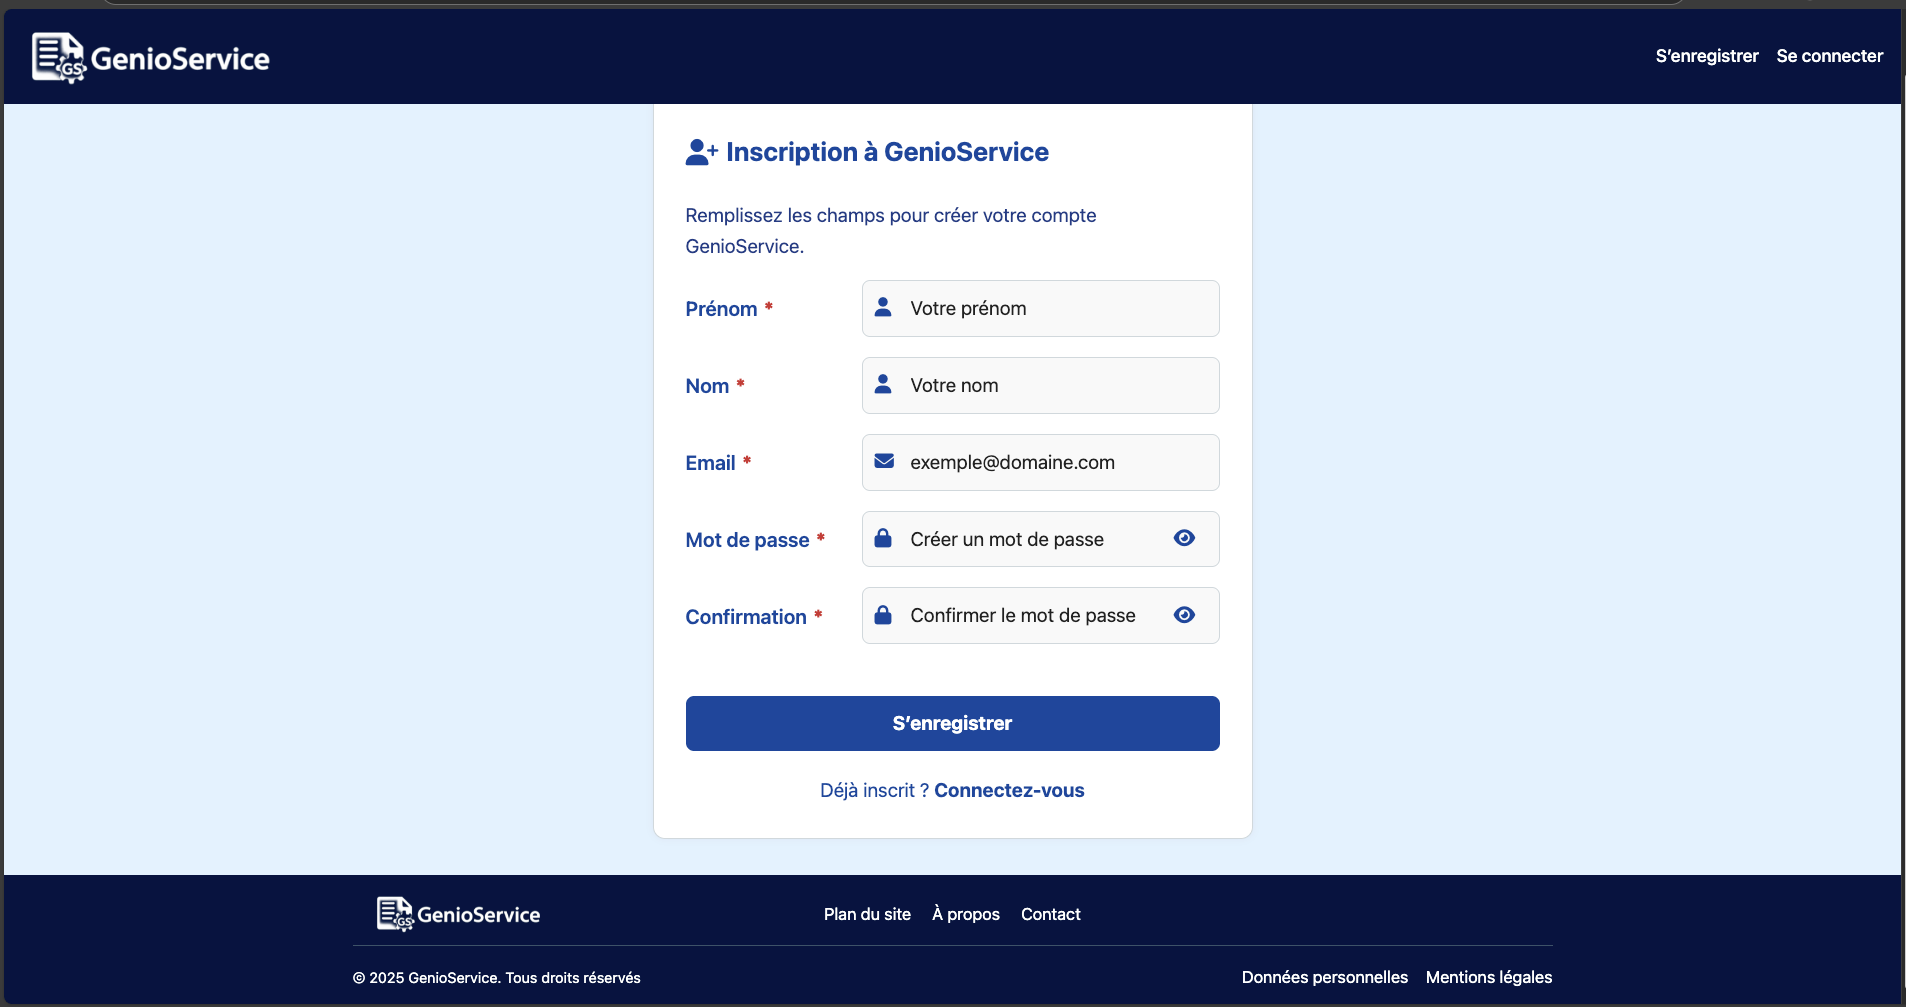
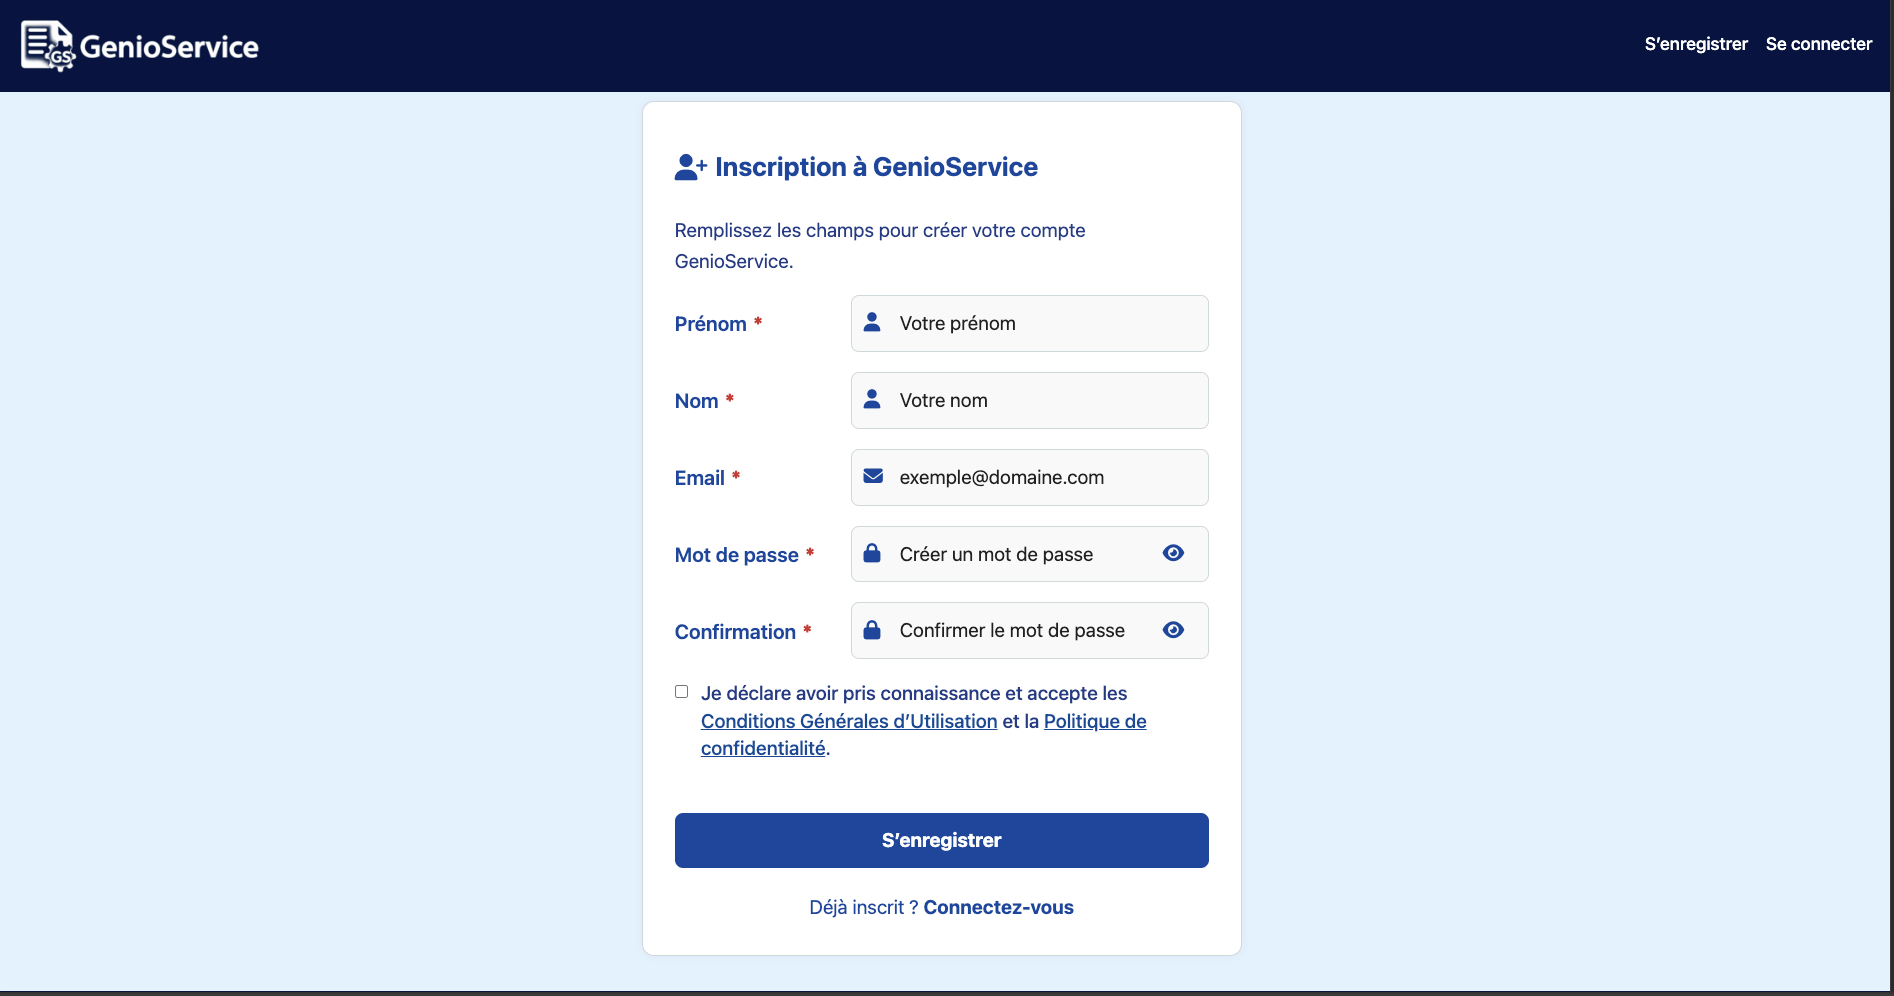
modification doc fonctionelle

Changed region(s): [[0.0, 0.0, 1.0, 1.0], [0.4361, 0.3735, 0.5919, 0.498], [0.4361, 0.2801, 0.5296, 0.3424]]

diff --git a/src/app/app.routes.ts b/src/app/app.routes.ts
@@ -5,7 +5,6 @@ import { ConnexionComponent } from './pages/connexion/connexion.component';
 import { ContactComponent } from './pages/contact/contact.component';
 import { AProposComponent } from './pages/a-propos/a-propos.component';
 import { MentionsLegalesComponent } from './pages/mentions-legales/mentions-legales.component';
-import { DonneesPersonnellesComponent } from './pages/donnees-personnelles/donnees-personnelles.component';
 import { PlanDuSiteComponent } from './pages/plan-du-site/plan-du-site.component';
 import {ConsulterModeleTousComponent} from './pages/consulter-modele-tous/consulter-modele-tous.component';
 import { ModifierModeleComponent } from './pages/modifier-modele/modifier-modele.component';
@@ -17,6 +16,7 @@ import {HistoriqueConventionsComponent} from './pages/historique-conventions/his
 import {GererModelesComponent} from './pages/gerer-modeles/gerer-modeles.component';
 import {ArchiverModeleComponent} from './pages/archiver-modele/archiver-modele.component';
 import {CguComponent} from './pages/cgu/cgu.component';
+import {PolitiqueConfidentialiteComponent} from './pages/confidentialite/confidentialite.component';
 
 export const routes: Routes = [
   { path: '', component: AccueilComponent },
@@ -25,7 +25,7 @@ export const routes: Routes = [
   { path: 'contact', component: ContactComponent },
   { path: 'a-propos', component: AProposComponent },
   { path: 'mentions-legales', component: MentionsLegalesComponent },
-  { path: 'donnees-personnelles', component: DonneesPersonnellesComponent },
+  { path: 'confidentialite', component: PolitiqueConfidentialiteComponent },
   { path: 'plan-du-site', component: PlanDuSiteComponent },
   {path: 'consulter-modeles', component: ConsulterModeleTousComponent},
   { path: 'modifier-modele/:id', component: ModifierModeleComponent },

diff --git a/src/app/pages/confidentialite/confidentialite.component.spec.ts b/src/app/pages/confidentialite/confidentialite.component.spec.ts
@@ -1,18 +1,19 @@
 import { ComponentFixture, TestBed } from '@angular/core/testing';
+import {PolitiqueConfidentialiteComponent} from './confidentialite.component';
 
-import { DonneesPersonnellesComponent } from './donnees-personnelles.component';
+
 
 describe('DonneesPersonnellesComponent', () => {
-  let component: DonneesPersonnellesComponent;
-  let fixture: ComponentFixture<DonneesPersonnellesComponent>;
+  let component: PolitiqueConfidentialiteComponent;
+  let fixture: ComponentFixture<PolitiqueConfidentialiteComponent>;
 
   beforeEach(async () => {
     await TestBed.configureTestingModule({
-      imports: [DonneesPersonnellesComponent]
+      imports: [PolitiqueConfidentialiteComponent]
     })
     .compileComponents();
 
-    fixture = TestBed.createComponent(DonneesPersonnellesComponent);
+    fixture = TestBed.createComponent(PolitiqueConfidentialiteComponent);
     component = fixture.componentInstance;
     fixture.detectChanges();
   });

diff --git a/src/app/pages/confidentialite/confidentialite.component.html b/src/app/pages/confidentialite/confidentialite.component.html
@@ -2,12 +2,12 @@
   <div class="about-box">
     <header class="about-header">
       <i class="fas fa-user-shield" aria-hidden="true"></i>
-      <h1 id="page-title">Données personnelles & cookies</h1>
+      <h1 id="page-title">Politique de confidentialité</h1>
     </header>
     <app-breadcrumb
       [items]="[
         { label: 'Accueil', url: '/' },
-        { label: 'Données personnelles & cookies' }
+        { label: 'Politique de confidentialité' }
       ]"
       aria-labelledby="page-title">
     </app-breadcrumb>
@@ -39,7 +39,7 @@
         </li>
         <li>
           par courrier postal, signé et accompagné d’une copie d’une pièce d’identité, à l’adresse suivante :<br />
-         <br>
+          <br>
           <strong>GenioService</strong><br />
           À l’attention de Mme Elsa HADJADJ, Déléguée à la Protection des Données (DPO)<br />
           Département Informatique – IUT de Montreuil<br />

diff --git a/src/app/pages/confidentialite/confidentialite.component.ts b/src/app/pages/confidentialite/confidentialite.component.ts
@@ -16,14 +16,14 @@ import { Component } from '@angular/core';
 import {BreadcrumbComponent} from '../../shared/breadcrumb/breadcrumb.component';
 
 @Component({
-  selector: 'app-donnees-personnelles',
+  selector: 'app-confidentialite',
   imports: [
     BreadcrumbComponent
   ],
-  templateUrl: './donnees-personnelles.component.html',
+  templateUrl: './confidentialite.component.html',
   standalone: true,
-  styleUrls: ['./donnees-personnelles.component.css','../../../assets/styles/header.css']
+  styleUrls: ['./confidentialite.component.css','../../../assets/styles/header.css']
 })
-export class DonneesPersonnellesComponent {
+export class PolitiqueConfidentialiteComponent {
 
 }

diff --git a/src/app/pages/plan-du-site/plan-du-site.component.html b/src/app/pages/plan-du-site/plan-du-site.component.html
@@ -215,7 +215,7 @@
         <li><i class="fas fa-circle"></i> <a routerLink="/a-propos">À propos</a></li>
         <li><i class="fas fa-circle"></i> <a routerLink="/contact">Contact</a></li>
         <li><i class="fas fa-circle"></i> <a routerLink="/mentions-legales">Mentions légales</a></li>
-        <li><i class="fas fa-circle"></i> <a routerLink="/donnees-personnelles">Données personnelles & cookies</a></li>
+        <li><i class="fas fa-circle"></i> <a routerLink="/confidentialite">Politique de confidentialité</a></li>
         <li><i class="fas fa-circle"></i> <a routerLink="/plan-du-site">Plan du site</a></li>
       </ul>
     </section>

diff --git a/src/app/pages/cgu/cgu.component.html b/src/app/pages/cgu/cgu.component.html
@@ -43,10 +43,10 @@
     </section>
 
     <section class="about-section">
-      <h2><i class="fas fa-user-shield"></i> Données personnelles</h2>
+      <h2><i class="fas fa-user-shield"></i> Politique de confidentialité</h2>
       <p>
         Pour consulter la politique de confidentialité, veuillez vous référer à la page :
-        <a href="/donnees-personnelles">Données personnelles & cookies</a>.
+        <a routerLink="/confidentialite">Politique de confidentialité</a>
       </p>
     </section>
 

diff --git a/src/app/pages/inscription/inscription.component.html b/src/app/pages/inscription/inscription.component.html
@@ -74,7 +74,7 @@
       Je déclare avoir pris connaissance et accepte les
       <a href="/cgu" target="_blank" rel="noopener">Conditions Générales d’Utilisation</a>
       et la
-      <a href="/donnees-personnelles" target="_blank" rel="noopener">Politique de confidentialité</a>.
+      <a href="/confidentialite" target="_blank" rel="noopener">Politique de confidentialité</a>.
     </span>
         </label>
       </div>

diff --git a/src/app/shared/footer/footer.component.html b/src/app/shared/footer/footer.component.html
@@ -18,7 +18,7 @@
         <small>© 2025 GenioService. Tous droits réservés</small>
       </div>
       <nav class="footer-right" aria-label="Liens légaux">
-        <a routerLink="/donnees-personnelles">Données personnelles</a>
+        <a routerLink="/confidentialite">Politique de confidentialité</a>
         <a routerLink="/mentions-legales">Mentions légales</a>
         <a routerLink="/cgu">CGU</a>
       </nav>

diff --git a/src/app/pages/cgu/cgu.component.ts b/src/app/pages/cgu/cgu.component.ts
@@ -1,10 +1,12 @@
 import { Component } from '@angular/core';
 import {BreadcrumbComponent} from '../../shared/breadcrumb/breadcrumb.component';
+import {RouterLink} from '@angular/router';
 
 @Component({
   selector: 'app-cgu',
   imports: [
-    BreadcrumbComponent
+    BreadcrumbComponent,
+    RouterLink
   ],
   templateUrl: './cgu.component.html',
   standalone: true,

diff --git a/src/app/shared/navbar/navbar.component.ts b/src/app/shared/navbar/navbar.component.ts
@@ -45,7 +45,8 @@ export class NavbarComponent {
       '/a-propos',
       '/contact',
       '/mentions-legales',
-      '/donnees-personnelles',
+      '/confidentialite',
+      '/cgu',
       '/plan-du-site',
       '/reset-password',
       '/mot-de-passe-oublie'

diff --git a/docs/04-doc-fonctionnelle.md b/docs/04-doc-fonctionnelle.md
@@ -22,8 +22,9 @@
 - [Page – Plan du site](#page--plan-du-site)
 - [Page – À propos de GenioService](#page--à-propos-de-genioservice)
 - [Page – Contact](#page--contact)
-- [Page – Données personnelles & cookies](#page--données-personnelles--cookies)
+- [Page – Politique de confidentialité](#page--politique-de-confidentialité)
 - [Pages - Mentions légales](#page--mentions-légales)
+- [Conditions Générales d’Utilisation (CGU)](#page--conditions-générales-dutilisation-cgu)
 
 ## Page d’accueil
 
@@ -181,33 +182,40 @@ C’est l’étape préalable à toute utilisation du service.
   - **Adresse e-mail**
   - **Mot de passe**
   - **Confirmation du mot de passe**
+  - **Case à cocher obligatoire** :  
+    _Je déclare avoir pris connaissance et accepte les [Conditions Générales d’Utilisation](/cgu) et la [Politique de confidentialité](/confidentialite)._
 
 - Une fois tous les champs valides :
-  - Le bouton **S’enregistrer** envoie les données via POST /api/utilisateurs
-  - L’adresse e-mail est vérifiée pour **unicité** en temps réel (appel GET /exists)
+  - Le bouton **S’enregistrer** envoie les données via `POST /api/utilisateurs`
+  - L’adresse e-mail est vérifiée pour **unicité** en temps réel (`GET /api/utilisateurs/exists`)
   - Si inscription réussie, l’utilisateur est redirigé vers la page de **connexion**
   - En cas d’erreur, un message clair est affiché en haut du formulaire
 
 - Le formulaire inclut une **vérification dynamique du mot de passe** :
-  - La liste des règles non respectées est affichée en badges rouges sous le champ
+  - Les règles non respectées s’affichent en **badges rouges** sous le champ
+  - Elles disparaissent une à une dès qu’elles sont respectées
 
 ---
 
 ### Exigences fonctionnelles de page d'inscription
 
 - Tous les champs sont **obligatoires** (required)
-- Le mot de passe doit **respecter toutes les règles suivantes** :
+- Le mot de passe doit respecter **toutes les règles suivantes** :
   - Minimum **12 caractères**
   - Contenir **au moins 1 majuscule**
   - Contenir **au moins 1 chiffre**
   - Contenir **au moins 1 caractère spécial**
-- Les mots de passe et confirmation doivent **être identiques**
-- Si l’adresse e-mail existe déjà, un message s’affiche : Cet e-mail est déjà utilisé.
-- En cas d’erreur, le message disparaît automatiquement après quelques secondes
-- Accessibilité :
-  - aria-label, aria-live, aria-describedby intégrés
-  - Navigation clavier et lecteurs d’écran prise en charge
-- Comportement responsive (PC et mobile)
+- Les mots de passe et la confirmation doivent être **identiques**
+- L’adresse e-mail doit être **unique** dans la base de données
+- La **case à cocher RGPD est obligatoire** :
+  - Elle doit être cochée pour permettre l’envoi du formulaire
+  - En cas d’absence de consentement, un message d’erreur s’affiche :  
+    _Vous devez accepter les conditions pour vous inscrire._
+- En cas d’erreur, un message s’affiche en haut du formulaire, puis disparaît automatiquement après quelques secondes
+- **Accessibilité** :
+  - `aria-label`, `aria-live`, `aria-describedby` intégrés
+  - Compatible avec la **navigation clavier** et les **lecteurs d’écran**
+- **Responsive** : fonctionne sur PC et mobile
 
 ---
 
@@ -1506,39 +1514,49 @@ Permettre aux visiteurs du site, connectés ou non, de **contacter le développe
 
 ---
 
-## Page – Données personnelles & cookies
+## Page – Politique de confidentialité
 
-### Objectif de la page Données personnelles & cookies
+### Objectif de la page Politique de confidentialité
 
 Informer l’utilisateur des engagements de GenioService concernant la protection des données personnelles, les droits des utilisateurs, la nature des données collectées et l’usage des cookies. Cette page est obligatoire dans un cadre RGPD.
 
 ---
 
-### Aperçu de la page Données personnelles & cookies
-
+### Aperçu de la page Politique de confidentialité
+<!-- markdownlint-disable MD033 -->
 <div>
-  <img src="./assets/images/page-donnees-personnelles.png" alt="Page Données personnelles et cookies – GenioService" width="600"/>
+  <img src="./assets/images/page-confidentialite.png" alt="Page Politique de confidentialité – GenioService" width="600"/>
 </div>
 
 ---
 
-### Fonctionnement de l’écran de la page Données personnelles & cookies
+### Fonctionnement de l’écran de la page Politique de confidentialité
 
-- Accessible publiquement depuis le footer (lien "Données personnelles").
+- Accessible publiquement depuis le footer (lien « Politique de confidentialité »).
+- Lien également présent dans le formulaire d’inscription (via la case à cocher obligatoire) :
+  > « Je déclare avoir pris connaissance et accepte la [Politique de confidentialité](/confidentialite) »
 - Structure en **6 sections explicites** :
-  1. **Engagement de GenioService** : conformité au RGPD, pas de collecte sans consentement.
-  2. **Vos droits** : suppression, opposition, limitation (droit à la vie privée).
-       - Coordonnées de la DPO (Elsa Hadjadj) fournies (email et adresse postale).
-       - Obligation de joindre une pièce d’identité pour toute demande.
-  3. **Données collectées** : uniquement celles nécessaires à l’authentification et gestion.
-       - Aucune donnée sensible stockée en clair.
-  4. **Utilisation des cookies** : uniquement cookies techniques (aucun traceur pub).
-  5. **Gérer vos préférences** : liens vers les paramètres de chaque navigateur.
-  6. **Liens utiles** : vers le site de la CNIL pour plus d’infos.
+  1. **Engagement de GenioService** : conformité stricte au RGPD, aucune collecte sans consentement.
+  2. **Vos droits** : possibilité de demander l’accès, la rectification, l’effacement ou la limitation des données.
+  - Coordonnées de la DPO (Elsa Hadjadj) fournies.
+  - Justificatif d’identité exigé pour valider la demande.
+  3. **Données collectées** : uniquement les données nécessaires à l’inscription et à l’authentification.
+  - Aucune donnée sensible stockée en clair ni utilisée à d'autres fins.
+  4. **Utilisation des cookies** :
+  - Uniquement des cookies techniques nécessaires à la session (pas de cookies publicitaires).
+  5. **Gérer vos préférences** :
+  - Instructions pour configurer les cookies via les navigateurs (Chrome, Firefox, Safari…).
+  6. **Liens utiles** :
+  - Renvoi vers le site de la CNIL pour approfondir ses droits et démarches.
+
+- Les données personnelles sont conservées pendant une durée maximale de **1 an après la dernière activité** sur le compte. Passé ce délai, le compte est automatiquement désactivé.
+- Si aucune demande de suppression n’est formulée, les données sont conservées pendant encore **5 ans à des fins d’archivage pédagogique**, puis automatiquement supprimées ou anonymisées de manière irréversible.
+- À tout moment, l’utilisateur peut **demander la suppression immédiate de ses données** en contactant la Déléguée à la Protection des Données (DPO) à l’adresse suivante : <a href="mailto:elsa.simha.hadjadj@gmail.com">elsa.simha.hadjadj@gmail.com</a>.
+- Conformément au principe de **minimisation** du RGPD, GenioService ne collecte que les données strictement nécessaires au fonctionnement de la plateforme.
 
 ---
 
-### Exigences fonctionnelles de la page Données personnelles & cookies
+### Exigences fonctionnelles de la page Politique de confidentialité
 
 - Lien accessible dans le footer de toutes les pages.
 - Tous les liens extérieurs ouvrent un nouvel onglet (`target="_blank"`, `rel="noopener"`).
@@ -1549,7 +1567,7 @@ Informer l’utilisateur des engagements de GenioService concernant la protectio
 
 ---
 
-### Exigences techniques de la page Données personnelles & cookies
+### Exigences techniques de la page Politique de confidentialité
 
 - **Framework** : Angular 17
 - **Composant** : `DpoComponent` ou `DonnéesPersonnellesComponent` (standalone)
@@ -1601,12 +1619,13 @@ Présenter les informations légales obligatoires liées à l'éditeur du site G
 ### Fonctionnement de la page Mentions légales
 
 - Accessible depuis le **footer** sur toutes les pages via le lien « Mentions légales ».
-- Contenu réparti en **5 sections** :
+- Contenu réparti en **6 sections** principales :
   1. **Éditrice du site** : identité de l’auteure (Elsa Hadjadj), encadrement (Jérémy Marcinkowski), et localisation de l’établissement (IUT de Montreuil).
   2. **Technologies utilisées** : framework front-end (Angular), back-end (Spring Boot), responsive design, accessibilité.
   3. **Dépôts GitHub** : liens directs vers les dépôts frontend et backend publics.
   4. **Propriété intellectuelle** : licence Creative Commons **CC BY-NC-SA 4.0** (usage non commercial, attribution requise).
-  5. **Hébergement** : mention que le site est exécuté localement à des fins pédagogiques (pas d’hébergeur professionnel impliqué).
+  5. **Hébergement** : site hébergé en France sur un serveur local à des fins pédagogiques, conforme RGPD.
+  6. **Green IT** : principes d’éco-conception numérique appliqués au projet.
 
 ---
 
@@ -1630,7 +1649,7 @@ Présenter les informations légales obligatoires liées à l'éditeur du site G
   - `RouterLink`, `NgIf`, `BreadcrumbComponent`
 - **Accessibilité** :
   - `<main>` avec `aria-labelledby`
-  - Icônes décoratives en `aria-hidden`
+  - Icônes décoratives en `aria-hidden="true"`
 - **Responsive** : lisibilité sur petit écran (mobile-first)
 - **Sécurité** :
   - Aucun script ou fonctionnalité active sur cette page
@@ -1643,3 +1662,70 @@ Présenter les informations légales obligatoires liées à l'éditeur du site G
 Cette page est obligatoire en France, même dans un cadre académique, dès lors qu’un site est mis à disposition d’un public. Elle clarifie la responsabilité éditoriale et le périmètre d’utilisation du projet GenioService.
 
 ---
+
+## Page – Conditions Générales d’Utilisation (CGU)
+
+### Objectif de la page Conditions Générales d’Utilisation (CGU)
+
+Présenter les règles d’utilisation du site GenioService et les engagements réciproques entre l’utilisateur et l’éditeur.  
+Cette page précise les droits, responsabilités, et modalités d’accès au service, conformément aux bonnes pratiques juridiques en matière de services en ligne.
+
+---
+
+### Aperçu de la page Conditions Générales d’Utilisation (CGU)
+
+<!-- markdownlint-disable MD033 -->
+<div>
+  <img src="./assets/images/page-mentions-legales.png" alt="Page Mentions légales – GenioService" width="600"/>
+</div>
+
+---
+
+### Fonctionnement de la page Conditions Générales d’Utilisation (CGU)
+
+- Lien permanent dans le footer (`<footer>`) de toutes les pages.
+- Lien également présent dans le formulaire d’inscription (case à cocher obligatoire) :
+  > « Je déclare avoir pris connaissance et accepte les [Conditions Générales d’Utilisation](/cgu) »
+- Contenu structuré en 6 sections :
+  1. **Objet** : but et portée des CGU, acceptation des conditions.
+  2. **Accès au service** : nécessité d’un compte (email + mot de passe), confidentialité des identifiants.
+  3. **Responsabilités** : cas d’exonération (panne, mauvaise utilisation, accès frauduleux).
+  4. **Politique de confidentialité** : renvoi vers la page dédiée à la politique de confidentialité.
+  5. **Modifications** : possibilité de modification des CGU à tout moment.
+  6. **Droit applicable** : droit français, juridiction compétente = Paris.
+
+### Exigences de la page Mentions légales Conditions Générales d’Utilisation (CGU)
+
+- Texte **clair, synthétique et accessible**, lisible pour tout utilisateur.
+- **Lien vers cette page affiché dans le footer**, à côté des mentions légales et politique de confidentialité.
+- Lien direct vers la politique de confidentialité dans la section "Politique de confidentialité".
+- Page **statique** sans interaction, pour garantir accessibilité et sécurité.
+- Mention claire de l’acceptation implicite des CGU lors de l’utilisation du service.
+
+---
+
+### Exigences techniques de la page Conditions Générales d’Utilisation (CGU)
+
+- **Composant Angular** : `ConditionsUtilisationComponent` (`standalone`)
+- **Technos utilisées** :
+  - Frontend : Angular (HTML5, CSS3, TypeScript)
+  - Backend : Spring Boot (Java, REST API)
+- **Imports nécessaires** :
+  - `RouterLink`, `NgIf`, `BreadcrumbComponent`
+- **Accessibilité** :
+  - `<main>` avec `aria-labelledby`
+  - Icônes décoratives avec `aria-hidden="true"`
+- **Responsive design** : texte lisible sur mobile/tablette
+- **Sécurité** :
+  - Aucun script actif
+  - Liens protégés par `rel="noopener"`
+
+---
+
+### Complément pour la page Conditions Générales d’Utilisation (CGU)
+
+Bien que non strictement obligatoire dans un cadre académique, une page CGU est **fortement recommandée** pour tout site qui implique une **création de compte** ou un **service d’authentification**.
+Elle permet de définir un cadre clair pour les utilisateurs et de **limiter la responsabilité de l’éditeur** en cas d’usage abusif, d’indisponibilité ou d’erreurs techniques.
+
+---
+
